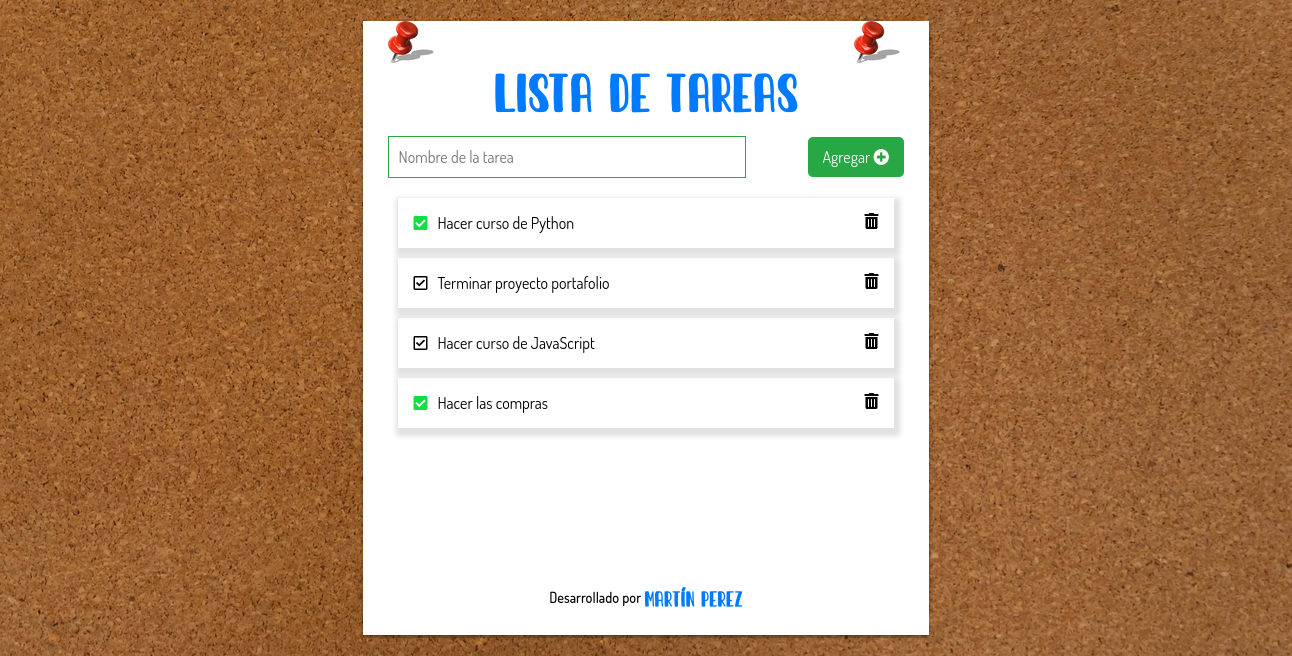
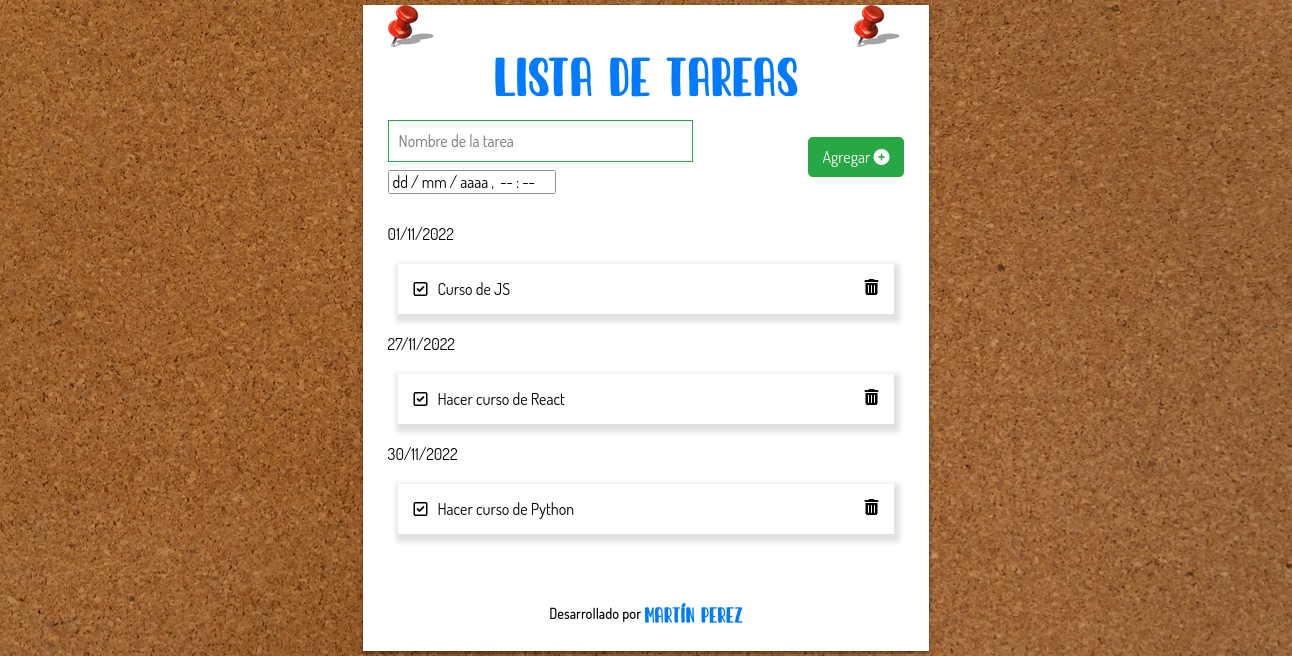
Actualizo proyecto Lista de Tareas

diff --git a/proyectos.html b/proyectos.html
@@ -54,7 +54,7 @@
                 <div class="card__info">
                     <h2 class="card__titulo">Lista de Tareas</h2>
                     <h3 class="card__subtitulo">Html | Css | JS</h3>
-                    <p class="card__parrafo">Sitio Web de Lista de Tareas desarrollado con la finalidad de poner en práctica la manipulación del DOM a travez de JavaScript.</p>
+                    <p class="card__parrafo">Sitio web de Lista de Tareas desarrollado con Html | Css | JS Este sitio lo realice con el propósito de poner en práctica la " Manipulación del DOM ". En el mismo utilizo la librería moment.js para manipular los datos del tipo Date(fechas) y la librería uuid para la generación de ids de los elementos, esto me ayudo a poder cambiar el estado de las tareas(incompleta o completa) y a la eliminación de una tarea, tanto del DOM como del almacenamiento local. Para el almacenamiento y persistencia de las tareas hago uso del localStorage.</p>
                     <div class="card__iconos">
                         <a href="https://github.com/TinchoGithub/Lista-Tareas" target="__blank"><i id="icono-proyecto" class="fa-brands fa-github" title="Repositorio" ></i></a>
                         <a href="https://tinchogithub.github.io/Lista-Tareas/" target="__blank"><i class="fa-solid fa-earth-americas" title="Demo" id="icono-proyecto"></i></a>
